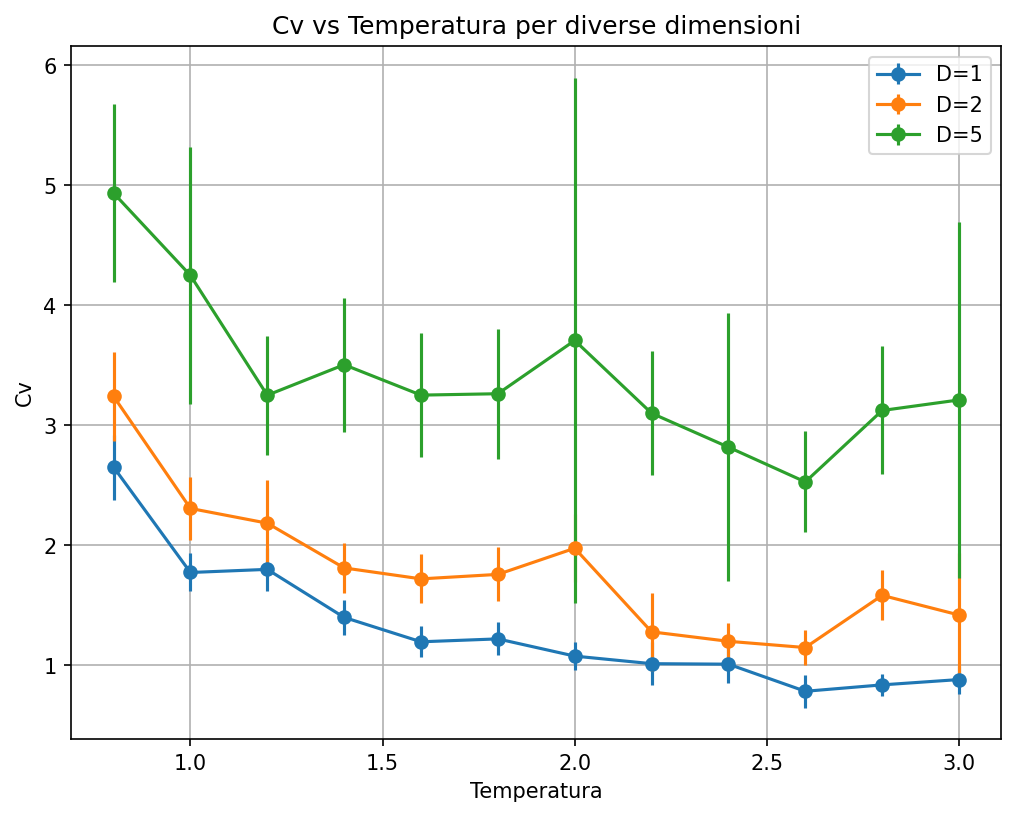
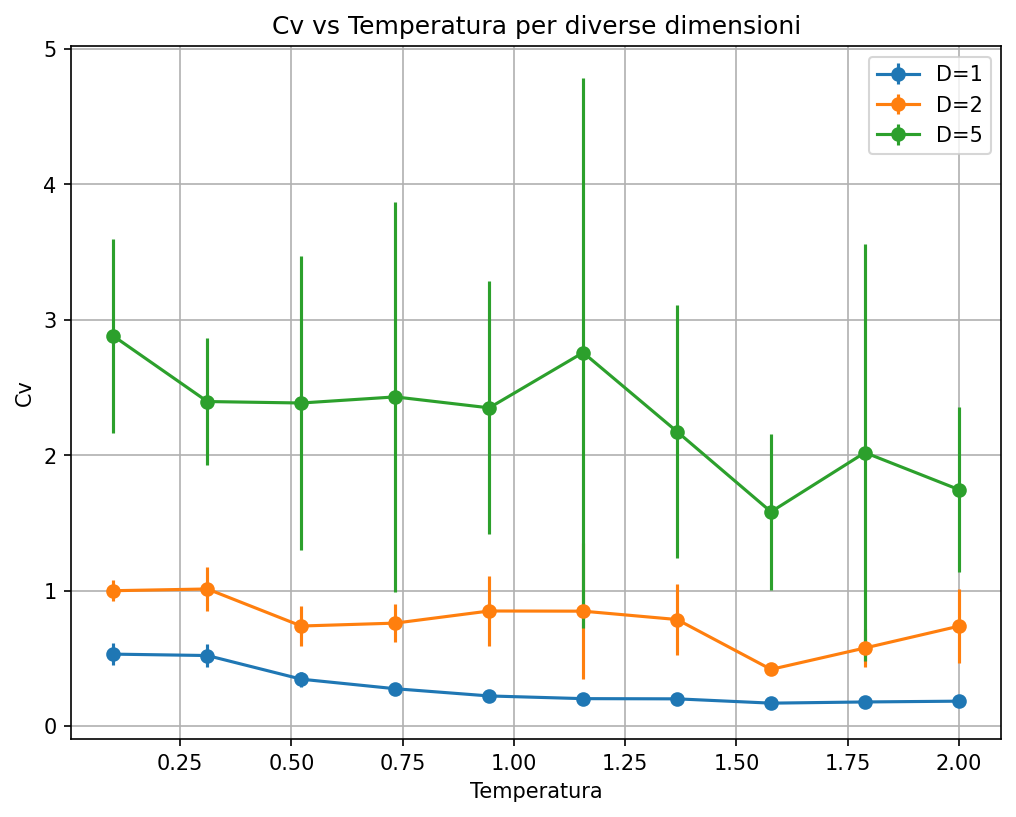
new blocking method and plateau, not sure

diff --git a/source/observable.py b/source/observable.py
@@ -1,66 +1,87 @@
 import jax 
 import jax.numpy as jnp
-
-def blocking_error(data, block_size):
-    n_blocks = len(data) // block_size
-    data = data[:n_blocks * block_size]
-
-    blocks = data.reshape(n_blocks, block_size)
-    means = jnp.mean(blocks, axis=1)
-
-    err = jnp.sqrt(jnp.var(means)/(n_blocks-1))
-
-    return err
+import numpy as np
 
 @jax.jit
 def V(x, a=1.0, b=1.0):
     return a * (x[0]**2 - b)**2 + 0.5 * jnp.sum(x[1:]**2)
 
-def mean_energy(trajectory, block_size, a=1.0, b=1.0):
-    energies = jax.vmap(lambda x: V(x, a, b))(trajectory)
-    mean_energy = jnp.mean(energies)
-    # error on mean energy using blocking
-    E_mean_err = blocking_error(energies, block_size)
-    return mean_energy, E_mean_err
+def blocking_analysis(data):
+    data = np.array(data)
+    N = len(data)
 
-def heat_capacity(trajectory, T, block_size, a=1.0, b=1.0):
-    energies = jax.vmap(lambda x: V(x, a, b))(trajectory)
-    mean_E = jnp.mean(energies)
-    mean_E2 = jnp.mean(energies**2)
-    Cv = (mean_E2 - mean_E**2) / (T**2)
-    # error on Cv using blocking
-    E_mean_err = blocking_error(energies, block_size)
-    E_2_mean_err = blocking_error(energies**2, block_size)
-    Cv_err = jnp.sqrt((E_2_mean_err**2 + 4*mean_E**2*E_mean_err**2) / (T**4))
-    return Cv, Cv_err
+    var_naive = np.var(data, ddof=1)
 
-def autocorrelation(x):
-    x = x - jnp.mean(x)
-    n = len(x)
+    block_sizes = []
+    R_values = []
+    errors = []
 
-    f = jnp.fft.fft(x, n=2*n)
-    corr = jnp.fft.ifft(f * jnp.conj(f)).real[:n]
+    for B in range(1, N // 5):
+        n_blocks = N // B
+        if n_blocks < 2:
+            break
 
-    corr = corr / jnp.arange(n, 0, -1)
-    corr = corr / corr[0]
+        trimmed = data[:n_blocks * B]
+        block_means = trimmed.reshape(n_blocks, B).mean(axis=1)
 
-    return corr
+        var_B = np.var(block_means, ddof=1)
 
-def integrated_autocorrelation_time(x, c=5.0):
-    corr = autocorrelation(x)
-    tau = 0.5
-    for t in range(1, len(corr)):
-        tau += corr[t]
-    return tau
+        R = B * var_B / var_naive
+
+        err = np.sqrt(R * var_naive / N)
+
+        block_sizes.append(B)
+        R_values.append(R)
+        errors.append(err)
+
+    return np.array(R_values), np.array(errors)
+
+def find_plateau(R_values, errors, window=50):
+    R_values = np.array(R_values)
+    errors = np.array(errors)
+
+    if len(R_values) <= window:
+        R_plateau = R_values[-1]
+        err_plateau = errors[-1]
+        tau = max((R_plateau - 1) / 2, 0.0)
+        return err_plateau, tau
+
+    grad = np.abs(np.diff(R_values))
+    threshold = 0.01 * np.percentile(R_values, 95)
+    candidates = np.where(grad < threshold)[0]
+
+    # Use the last sustained flat region, not the first transient dip
+    idx = candidates[-1] if len(candidates) > 0 else len(R_values) // 2
+    idx = max(idx, window)
+
+    end = min(idx + window, len(R_values))
+    R_plateau = np.mean(R_values[idx:end])
+    err_plateau = np.mean(errors[idx:end])
+
+    tau = max((R_plateau - 1) / 2, 0.0)
+    return err_plateau, tau
 
 def append_observables(results, trajectories, D, T, trajectory, acceptance_rate, a=1.0, b=1.0):
-    tau_x= integrated_autocorrelation_time(trajectory[:,0])
-    block_size = int(jnp.maximum(10, 5*tau_x))
-    E_mean, E_mean_err = mean_energy(trajectory, block_size, a, b)
-    Cv, Cv_err = heat_capacity(trajectory, T, block_size, a,b)
+    energies = np.array(jax.vmap(lambda x: V(x, a, b))(trajectory))
+    energies2 = energies**2
+
+    # blocking su E
+    R_E, err_E = blocking_analysis(energies)
+    E_mean_err, _ = find_plateau(R_E, err_E)
+    E_mean = np.mean(energies)
+
+    # blocking su E^2 per Cv
+    R_E2, err_E2 = blocking_analysis(energies2)
+    E2_err, _ = find_plateau(R_E2, err_E2)
+    Cv = (np.mean(energies2) - E_mean**2) / T**2
+    Cv_err = np.sqrt((E2_err**2 + 4*E_mean**2 * E_mean_err**2)) / T**2
+
+    #tau_x
+    x_values = np.array(trajectory[:, 0])
+    R_x, err_x = blocking_analysis(x_values)
+    _, tau_x = find_plateau(R_x, err_x)
 
     results[D]["T"].append(T)
-    
     results[D]["E_mean"].append(E_mean)
     results[D]["E_mean_err"].append(E_mean_err)
     results[D]["Cv"].append(Cv)
@@ -68,5 +89,5 @@ def append_observables(results, trajectories, D, T, trajectory, acceptance_rate,
     results[D]["acceptance"].append(acceptance_rate)
     results[D]["tau_x"].append(tau_x)
 
-    trajectories[D].append(trajectory[:,0])
+    trajectories[D].append(trajectory[:, 0])
     

diff --git a/source/main.py b/source/main.py
@@ -7,14 +7,33 @@ import jax.numpy as jnp
 
 def main():
     dimensions = [1, 2, 5]
-    temperatures = jnp.linspace(0.5, 3.0, 6)
-    n_thermalization = 100000
-    n_steps = 10000
-    step_size = 0.2
+    temperatures = jnp.linspace(0.1, 2.0, 10)
+    n_thermalization = 70000
+    n_steps = 40000
+    step_size = 0.1
     # potential parameters
     a = 1.0
-    b = 3.0
+    b = 1.0
 
+    #thermalization example for 3 configurations
+    D = 2
+    T = 0.4
+
+    key = jax.random.PRNGKey(0)
+    x1, key = metro.generate_config(key, D, "ones")
+    trajectory1, _, _, _ = metro.run_simulation(key, T, n_thermalization, step_size, x1, a, b)
+
+    key = jax.random.PRNGKey(0)
+    x2, key = metro.generate_config(key, D, "-ones")
+    trajectory_1, _, _, _ = metro.run_simulation(key, T, n_thermalization, step_size, x2, a, b)
+
+    key = jax.random.PRNGKey(0)
+    x3, key = metro.generate_config(key, D, "normal")
+    trajectoryR, _, _, _ = metro.run_simulation(key, T, n_thermalization, step_size, x3, a, b)
+    
+    plot.plot_thermalization_energies(trajectory1, trajectory_1, trajectoryR, T, D, n_thermalization)
+
+    #simulations for different dimensions and temperatures
     trajectories = {}
     results = {}
     for D in dimensions:
@@ -33,8 +52,8 @@ def main():
 
         key = jax.random.PRNGKey(0)
         x, key = metro.generate_config(key, D, "ones")
-
         for T in temperatures:
+            
             # thermalization 
             _, _, key , x = metro.run_simulation(key, T, n_thermalization, step_size, initial_x=x, a=a, b=b)
             # x is the last configuration of the thermalization, used as initial configuration for the production
@@ -45,6 +64,7 @@ def main():
             # append observables to results
             obs.append_observables(results,trajectories, D, T, trajectory, acceptance_rate, a, b)
             print(f"D={D}, T={T:.3f}.")
+
     # plot results
     plot.plot_obs__D_T(results, dimensions, "E_mean", error=True)
     plot.plot_obs__D_T(results, dimensions, "Cv", error=True)

diff --git a/source/plot.py b/source/plot.py
@@ -1,11 +1,31 @@
 import matplotlib.pyplot as plt
 import os
+import jax
+import jax.numpy as jnp
+import observable as obs
 
 REPORT_DIR = os.path.join(os.path.dirname(__file__), "..", "report")
 
 
 def _ensure_report_dir():
     os.makedirs(REPORT_DIR, exist_ok=True)
+
+def plot_thermalization_energies(trajectory1, trajectory_1, trajectoryR, T, D, n_steps):
+    _ensure_report_dir()
+    plt.figure(figsize=(8, 6))
+    plt.plot(jnp.arange(n_steps), jax.vmap(obs.V)(trajectory1), label="Inizializzazione a 1")
+    plt.plot(jnp.arange(n_steps), jax.vmap(obs.V)(trajectory_1), label="Inizializzazione a -1")
+    plt.plot(jnp.arange(n_steps), jax.vmap(obs.V)(trajectoryR), label="Inizializzazione random")
+    plt.xlabel("Passi di Metropolis")
+    plt.ylabel("Energia")
+    plt.title("Evoluzione dell'energia media durante la termalizzazione per D={} e T={}".format(D, T))
+    plt.legend()
+    plt.grid()
+    filename = f"thermalization_energies_D{D}_T{T:.2f}.png"
+    filepath = os.path.join(REPORT_DIR, filename)
+    plt.savefig(filepath, dpi=150, bbox_inches="tight")
+    print(f"Grafico salvato in: {filepath}")
+    plt.close()
 
 def plot_obs__D_T(results, dimensions, observable, error=None):
     _ensure_report_dir()

diff --git a/source/metropolis.py b/source/metropolis.py
@@ -12,6 +12,8 @@ def generate_config(key, D, type="uniform"):
         return jnp.zeros(D), key
     elif type == "ones":
         return jnp.ones(D), key
+    elif type == "-ones":
+        return -jnp.ones(D), key
     else:
         raise ValueError("Tipo non valido")
 
